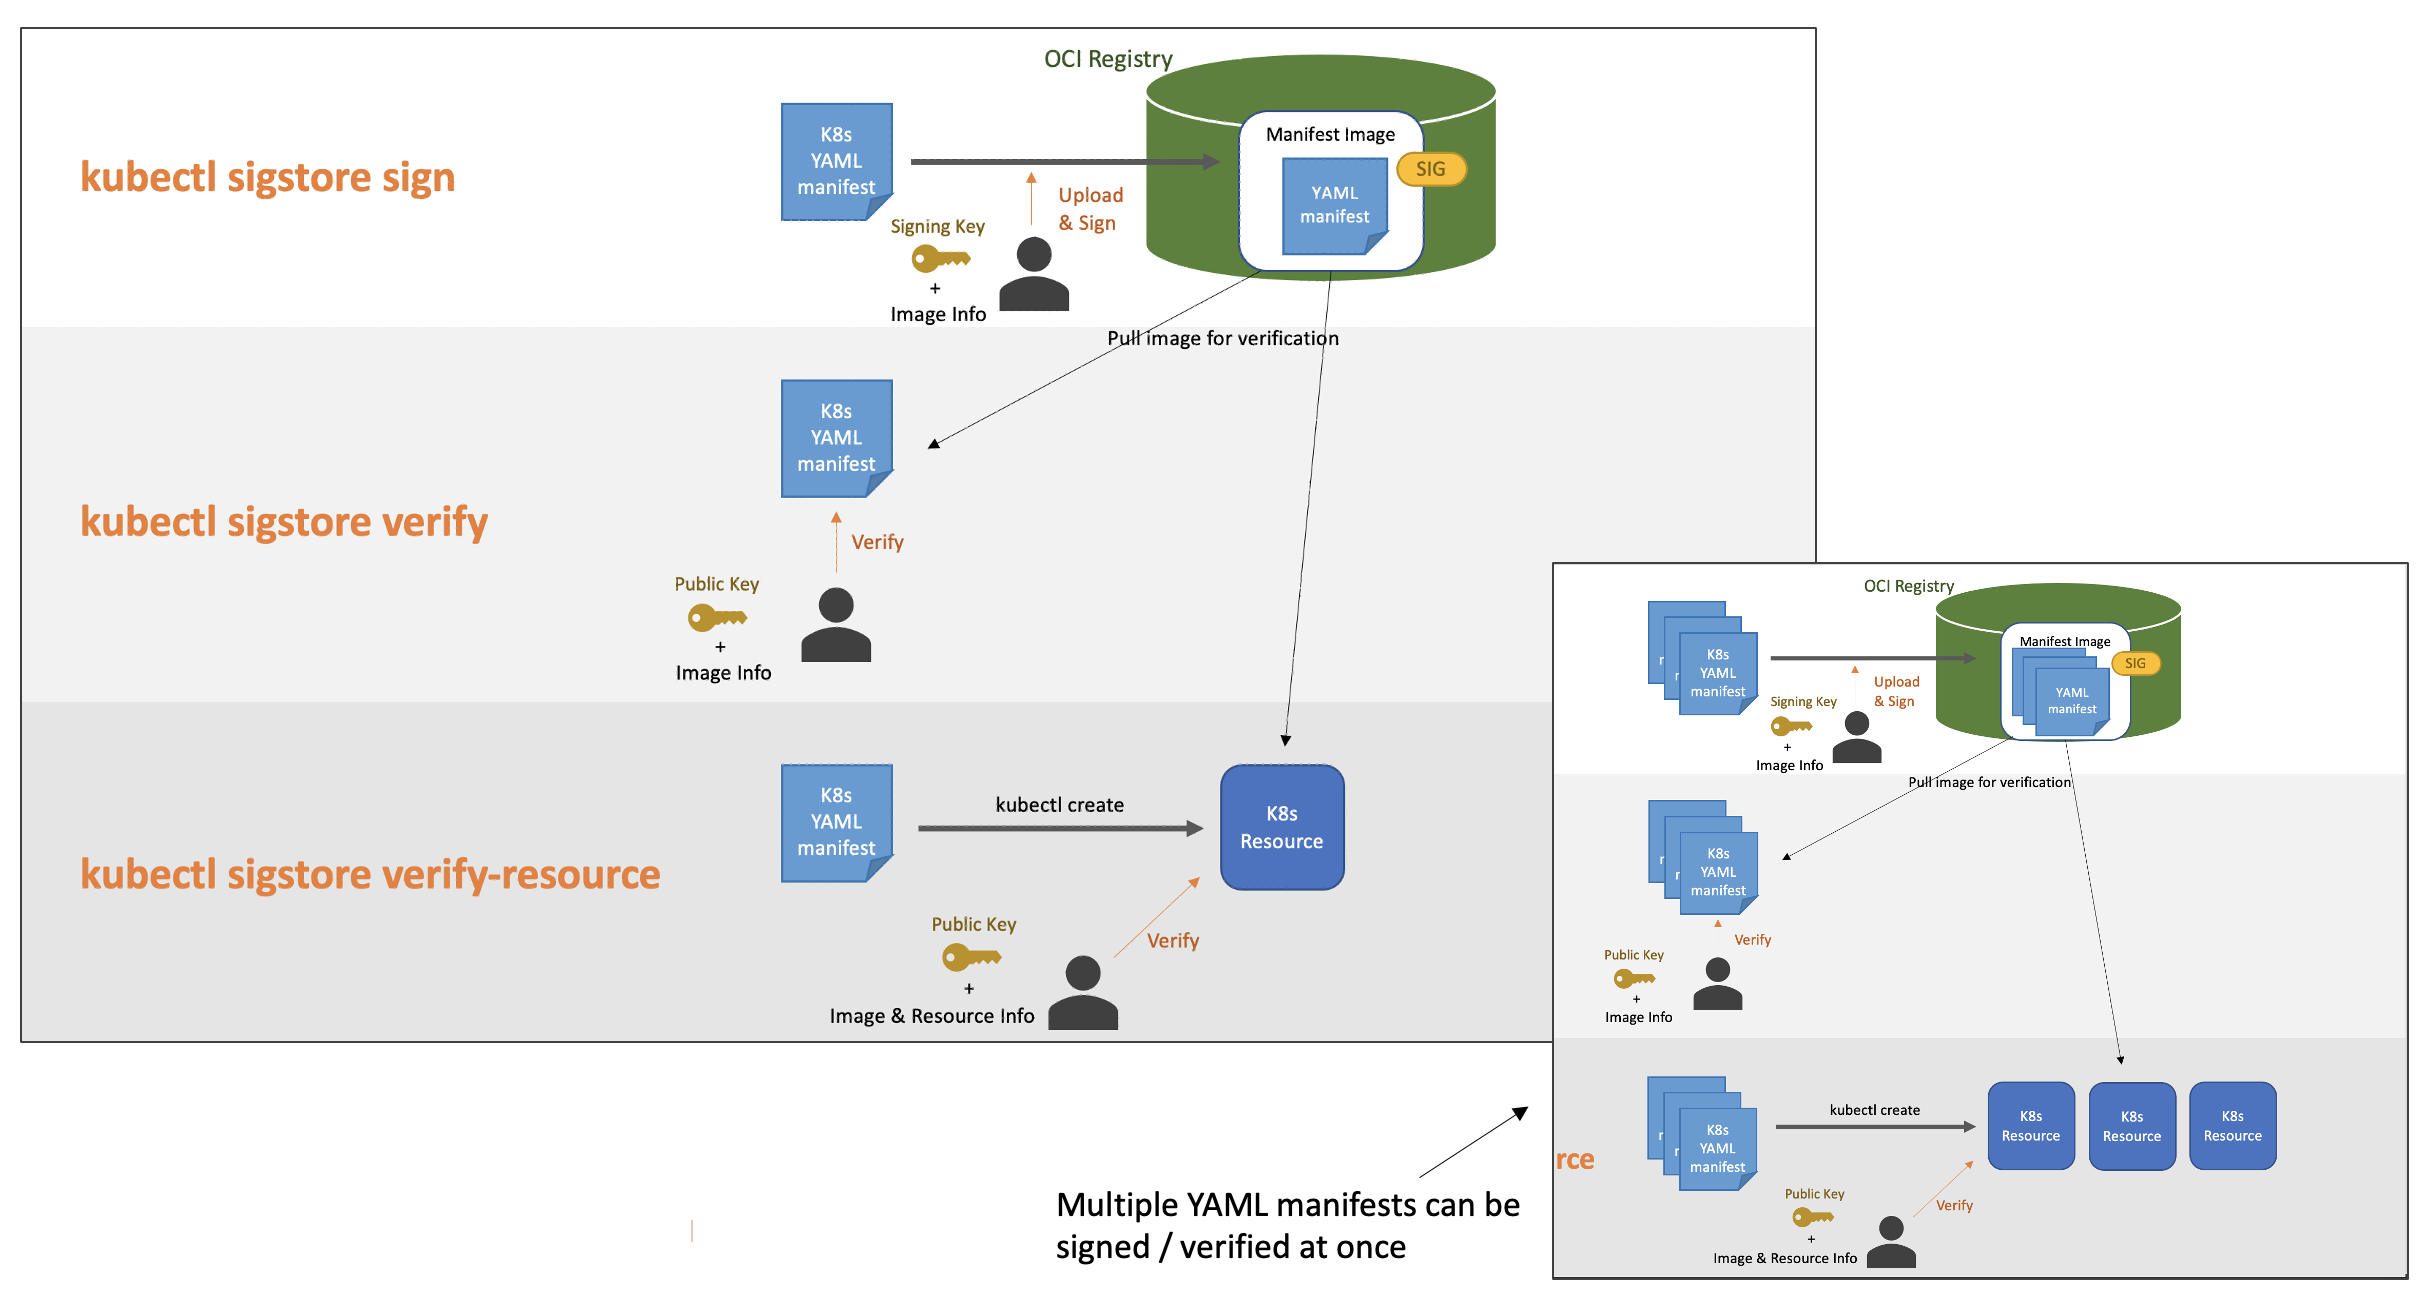
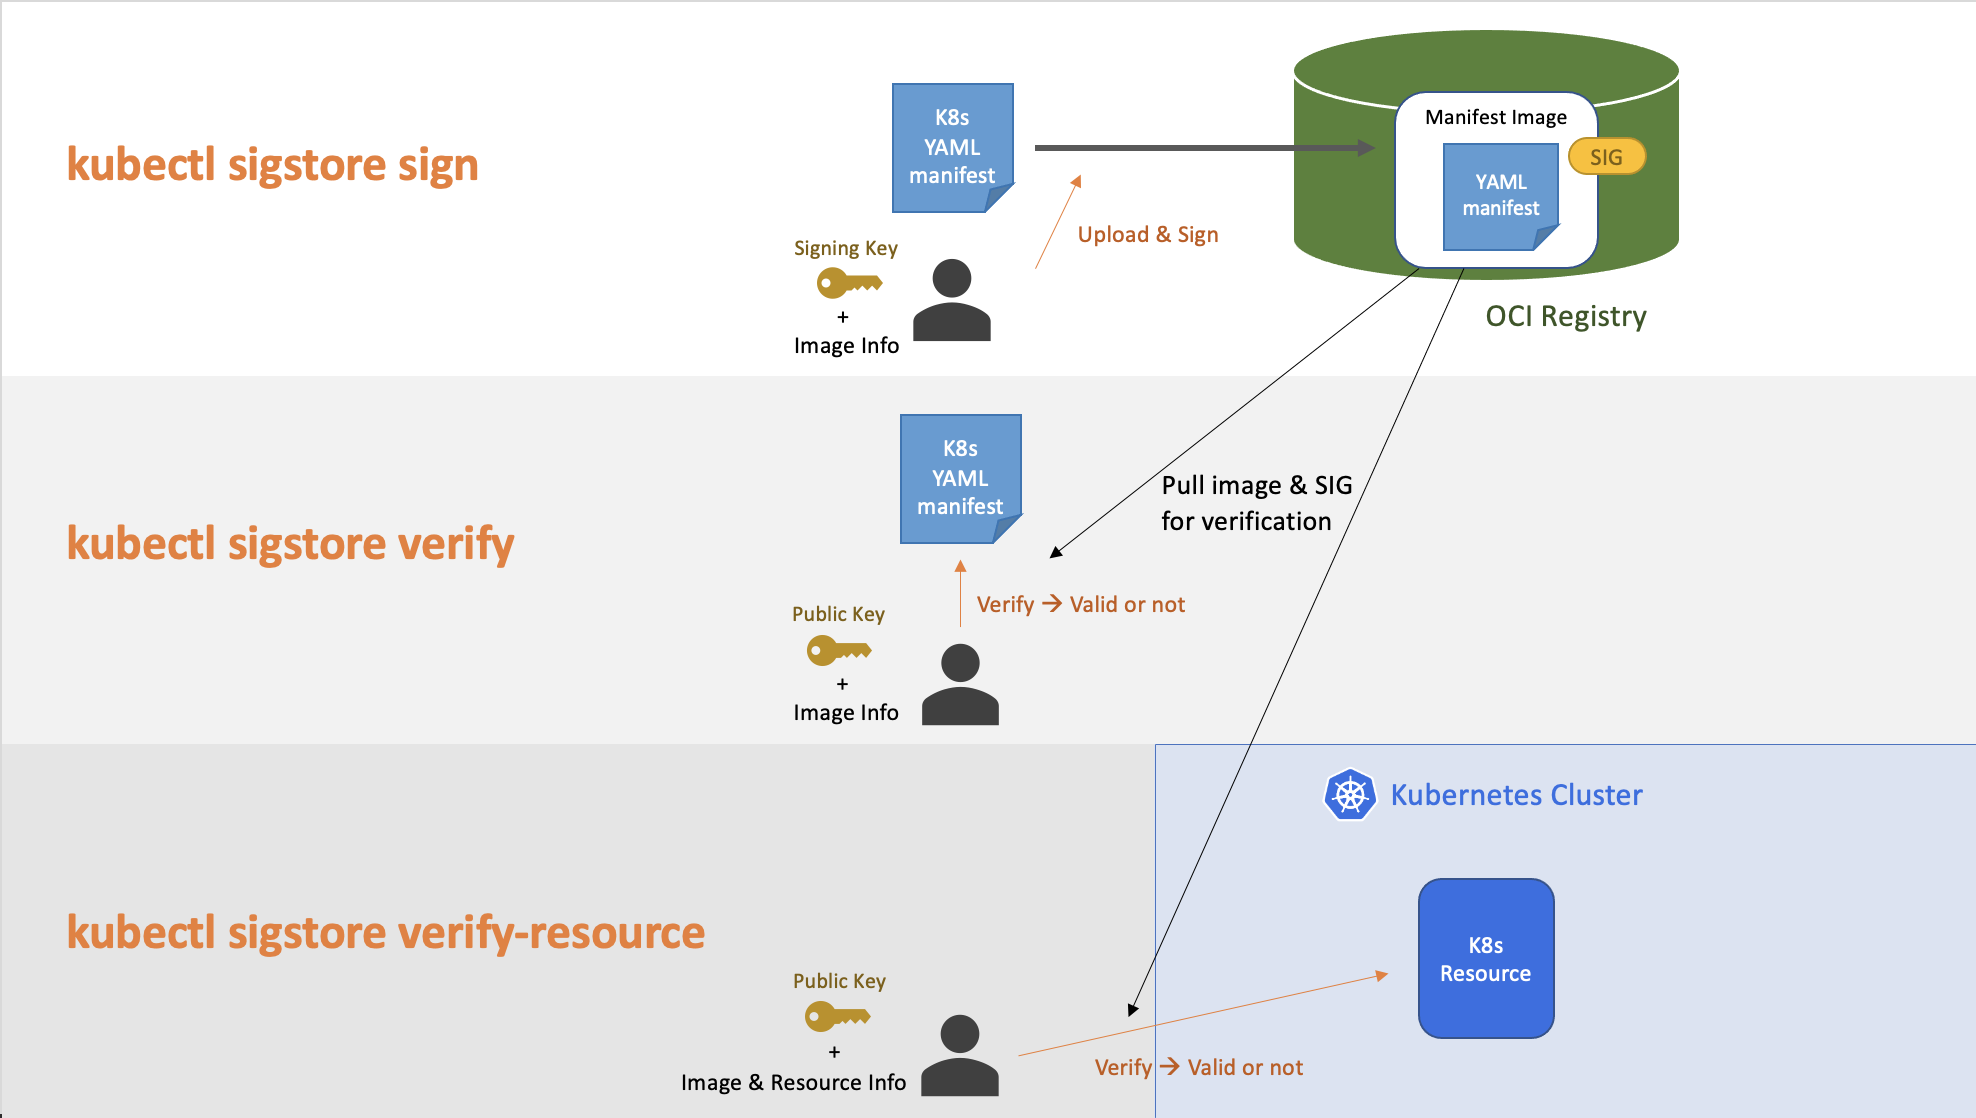
update images

diff --git a/docs/LATEST_RELEASE.md b/docs/LATEST_RELEASE.md
@@ -3,7 +3,7 @@
 
 This is the first release of the project!
 
-In this release, a kubectl subcommand plugin is ready, which can be used for signing and verifying Kubernetes YAML manifests and resources.
+In this release, a kubectl subcommand plugin is ready, which can be used for signing and verifying Kubernetes (K8s) YAML manifests and resources.
 
 This plugin has 3 major operations around singing and verification as below.
 
@@ -49,11 +49,35 @@ Additionally, another way to store signature is supported in this release. It us
 
 The overall flow is described as the image below. `kubectl sigstore sign` command creates "manifest image" which contains a YAML manifest inside, and push it to OCI registry, and then sign the manifest image. This mode does not require any change in the original YAML manifest.
 
-For verification, `kubectl sigstore verify` and `verify-resource` commands will pull the manifest image, and check the signature of it.
-
-Also, this mode is useful to sign multiple YAML manifests at once. In the case, resources that are deployed by the manifests can be verified by a single verification.
+For verification, `kubectl sigstore verify` and `verify-resource` commands pull the specified manifest image, and check the signature of it.
 
 <img src="images/oci-registry.png" alt="oci-registry" width="1200"/>
+
+To sign a YAML manifest using OCI registry, you can use this command. This command uploads a manifest as an image `sample-registry/sample-manifest:dev`, and signs the image.
+
+```
+$ kubectl sigstore sign -f sample-manifest.yaml -k cosign.key -i sample-registry/sample-manifest:dev
+```
+
+This way of signing does not requires changes in a YAML manifest, so you can verify the original YAML manifest like this.
+
+```
+$ kubectl sigstore verify -f sample-manifest.yaml -k cosign.pub -i sample-registry/sample-manifest:dev
+```
+
+Then a resource created from this YAML manifest also can be verified.
+
+In this case, target resourecs that should be verified are automatically selected by checking YAML manifest in image, so you don't need to specify resource information other than namespace.
+
+## TODO HERE!!
+
+```
+$ kubectl sigstore verify-resource -n sample-ns -k cosign.pub -i sample-registry/sample-manifest:dev
+```
+
+Also, this mode (using OCI registry) is useful to sign multiple YAML manifests at once. In the case, resources that are deployed by the manifests can be verified by a single verification. Ths signing part against multiple YAMLs is explained as below.
+
+<img src="images/multi-yamls.png" alt="multi-yamls" width="600"/>
 
 The command to sign (multiple) YAML manifests by using OCI registry is something like this. This exmaple is singing `./yamls/` directory and uploading it as an image `sample-registry/sample-manifest:dev`.
 
